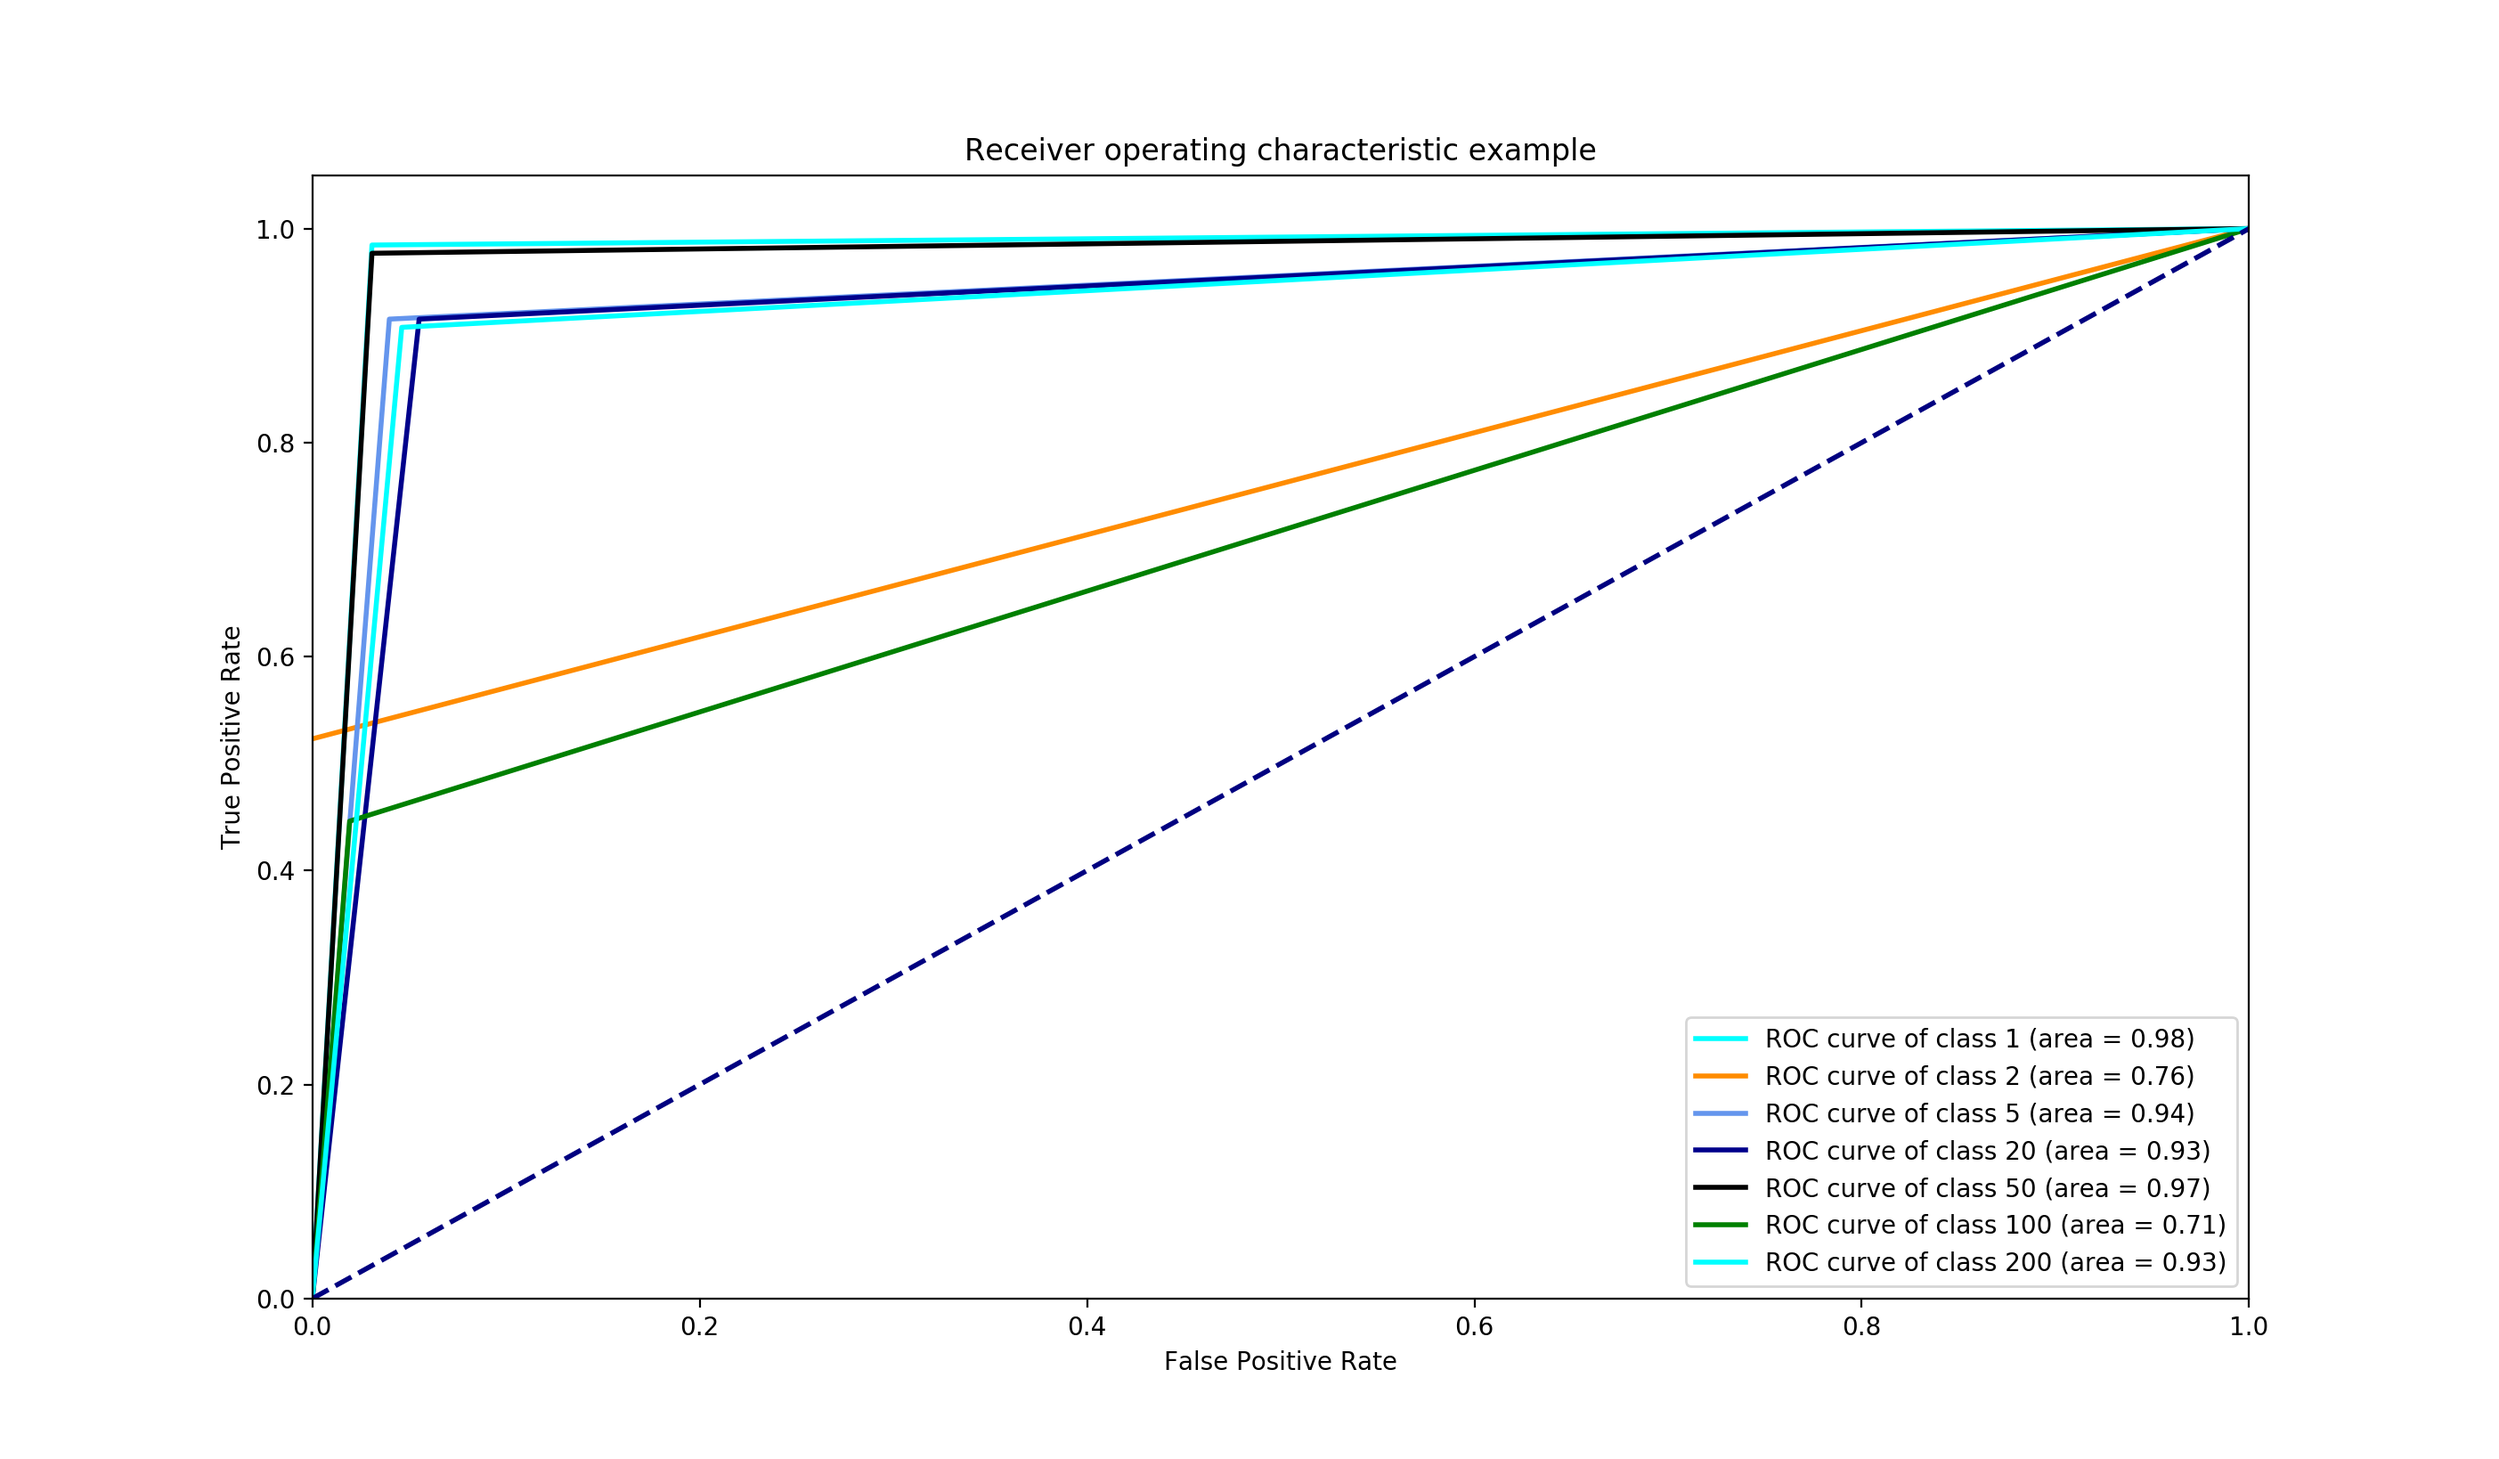
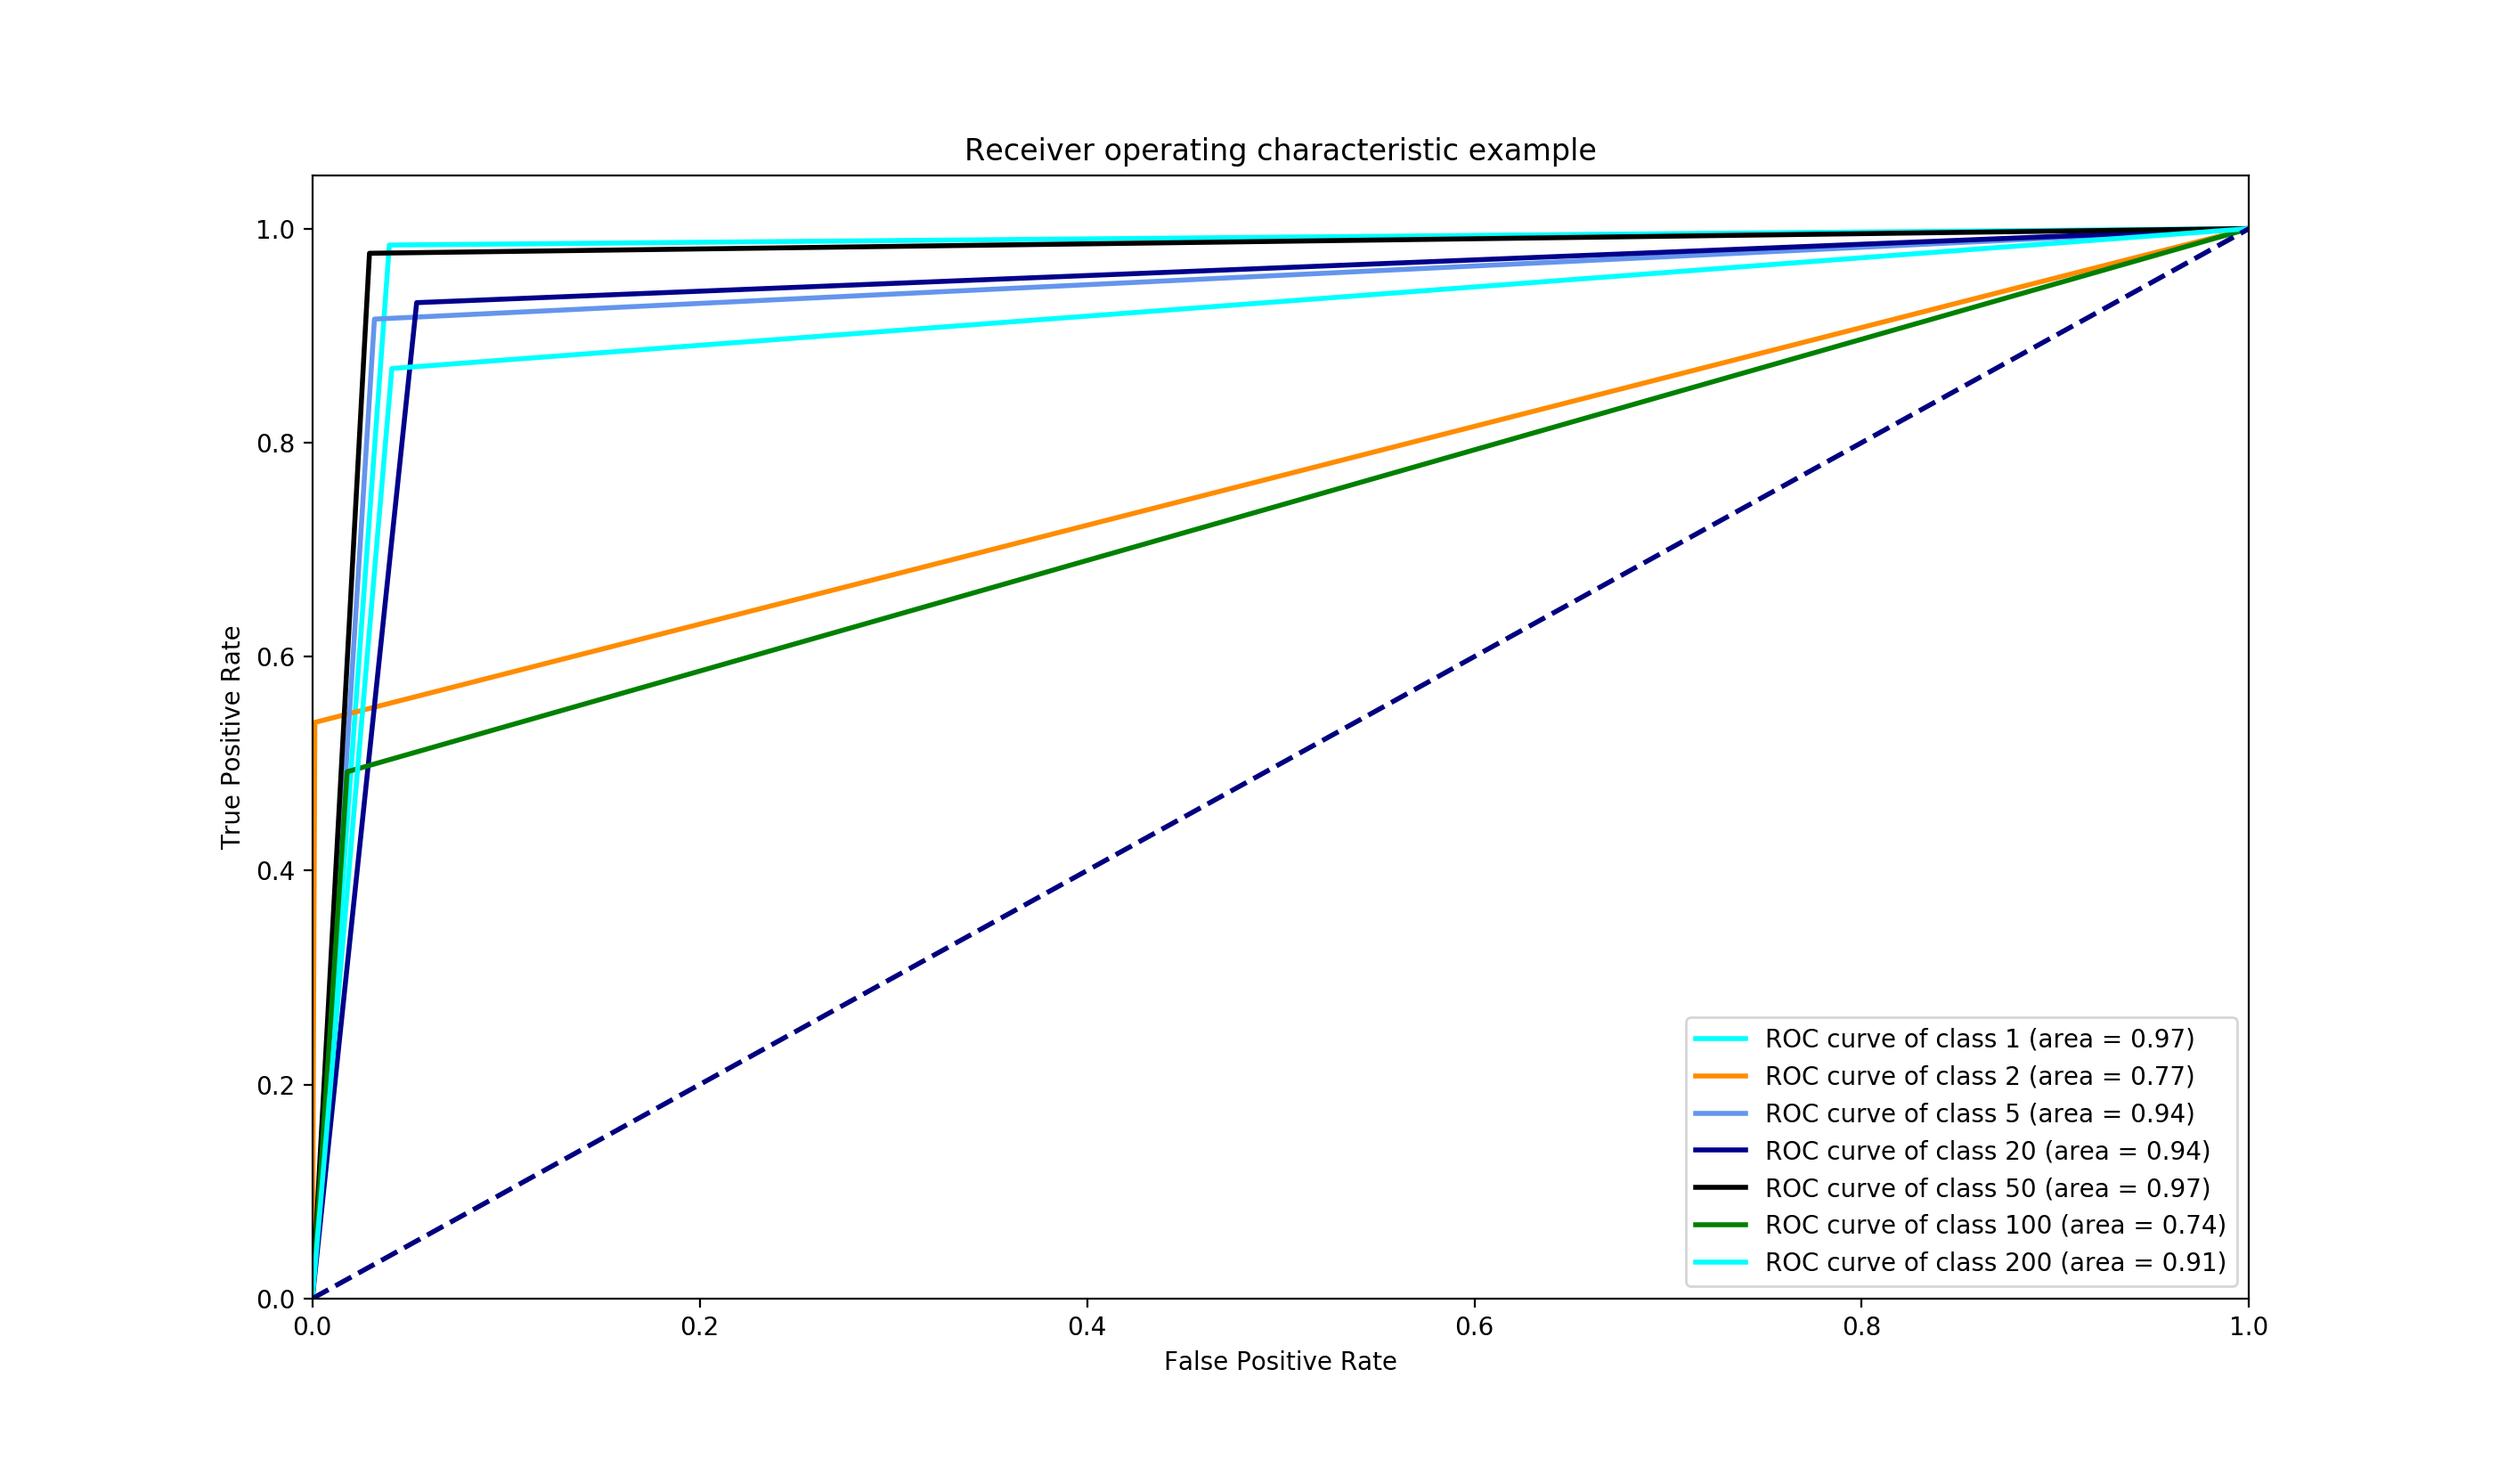
Confusion matrix for ROC curve, code for confusion matrix plotting

Changed region(s): [[0.124, 0.1557, 0.8991, 0.8095]]

diff --git a/torch_coin.py b/torch_coin.py
@@ -197,6 +197,36 @@ def get_comment_string(args):
 	comment += "seed{}".format(args.seed)
 	return comment
 
+def plot_confusion_matrix(cm, classes,
+                          title=None,
+                          cmap=plt.cm.Blues):
+    fig, ax = plt.subplots()
+    im = ax.imshow(cm, interpolation='nearest', cmap=cmap)
+    ax.figure.colorbar(im, ax=ax)
+    # We want to show all ticks...
+    ax.set(xticks=np.arange(cm.shape[1]),
+           yticks=np.arange(cm.shape[0]),
+           # ... and label them with the respective list entries
+           xticklabels=classes, yticklabels=classes,
+           title=title,
+           ylabel='True label',
+           xlabel='Predicted label')
+
+    # Rotate the tick labels and set their alignment.
+    plt.setp(ax.get_xticklabels(), rotation=45, ha="right",
+             rotation_mode="anchor")
+
+    # Loop over data dimensions and create text annotations.
+    fmt = '.2f'
+    thresh = cm.max() / 2.
+    for i in range(cm.shape[0]):
+        for j in range(cm.shape[1]):
+            ax.text(j, i, format(cm[i, j], fmt),
+                    ha="center", va="center",
+                    color="white" if cm[i, j] > thresh else "black")
+    fig.tight_layout()
+    plt.show()
+
 def main(args):
 	if not args.seed:
 		args.seed = (int(time.time()*1000000) % (2**32)) 
@@ -252,7 +282,7 @@ def main(args):
 		print("Moving model to gpu...")
 		model = model.cuda()
 
-	opti = [optim.Adam(model.get_encoder_param() + model.get_decoder_param(), lr=0.001*2), optim.Adam(model.get_encoder_param() + model.get_predictor_param(), lr=0.001*2)]
+	opti = [optim.Adam(model.get_encoder_param() + model.get_decoder_param(), lr=0.001*3), optim.Adam(model.get_encoder_param() + model.get_predictor_param(), lr=0.001*3)]
 	# schedulers = [optim.lr_scheduler.MultiStepLR(opti[0], milestones=[50]), optim.lr_scheduler.MultiStepLR(opti[1], milestones=np.arange(args.epochs)[::30], gamma=0.5)]
 
 	num_epochs = args.epochs
@@ -301,7 +331,7 @@ def main(args):
 		# Use training examples for now to test
 		num_examples_per_class = complete_dataset.get_num_coins_per_class()
 		coins = args.coins
-		colors = ['b', 'g', 'r', 'c', 'm', 'y', 'k'][:len(args.coins)]
+		colors = ['aqua', 'darkorange', 'cornflowerblue', 'darkblue', 'black', 'green', 'red'][:len(args.coins)]
 
 		plot_colors = []
 		[plot_colors.extend(x*num_examples_per_class) for x in colors]
@@ -323,9 +353,18 @@ def main(args):
 					all_encodings[i] = encoded_input[0]
 					i += 1
 				print("")
-			embedded = TSNE(n_components=2).fit_transform(all_encodings.numpy())
+		
+		embedded = TSNE(n_components=2).fit_transform(all_encodings.numpy())
 
 		ax.scatter(embedded[:,0], embedded[:,1], c=plot_colors, alpha=0.5)
+
+		# box = ax.get_position()
+		# ax.set_position([box.x0, box.y0 + box.height * 0.1,
+  #                		box.width, box.height * 0.9])
+
+		# ax.legend(loc='upper center', bbox_to_anchor=(0.5, -0.05),
+  #         		  fancybox=True, shadow=True, ncol=5)
+
 		plt.show()
 
 	if args.mode == "confusion":
@@ -361,7 +400,10 @@ def main(args):
 
 		confusion_matrix = confusion_matrix(expected, predicted, labels=coins)
 		print(confusion_matrix)
-		print(np.divide(confusion_matrix, num_examples_per_class))
+		norm_cm = np.divide(confusion_matrix, num_examples_per_class)
+		print(norm_cm)
+
+		plot_confusion_matrix(norm_cm, coins, "Normalized Confusion Matrix")
 
 	if args.mode == "roc":
 		from sklearn.metrics import roc_curve, auc
@@ -380,20 +422,16 @@ def main(args):
 		predicted = []
 
 		with torch.no_grad():
-			for coin in coins:
-				coin_data = complete_dataset.get_data_for_coin_type(coin=coin, num_examples=num_examples_per_class)
+			for i, data in enumerate(complete_dataset):
+				print("\rTesting: {}/{}".format(i + 1, len(complete_dataset)), end="")
 
-				for i, data in enumerate(coin_data):
-					print("\rCoin {}: {}/{}".format(coin, i + 1, num_examples_per_class), end="")
+				input_tensor, label = data["input"], data["label"]
+				expected.append(label)
 
-					input_tensor, label = data["input"], data["label"]
-					expected.append(label)
+				predicted_category = model(input=input_tensor.view(1, input_tensor.shape[0], input_tensor.shape[1]), use_predictor=True, teacher_input=None)
+				predicted_category = predicted_category.cpu().numpy()
 
-					predicted_category = model(input=input_tensor.view(1, input_tensor.shape[0], input_tensor.shape[1]), use_predictor=True, teacher_input=None)
-					predicted_category = predicted_category.cpu().numpy()
-
-					predicted.append(np.argmax(predicted_category))
-				print("")
+				predicted.append(np.argmax(predicted_category))
 
 		fpr = dict()
 		tpr = dict()
@@ -408,7 +446,7 @@ def main(args):
 			fpr[class_index], tpr[class_index], _ = roc_curve(one_vs_all_expected, one_vs_all_predicted)
 			roc_auc[class_index] = auc(fpr[class_index], tpr[class_index])
 
-		colors = cycle(['aqua', 'darkorange', 'cornflowerblue', 'darkblue', 'black', 'green', 'cyan'])
+		colors = cycle(['aqua', 'darkorange', 'cornflowerblue', 'darkblue', 'black', 'green', 'red'])
 		lw = 2
 		plt.figure()
 		for i, color in zip(range(len(coins)), colors):
